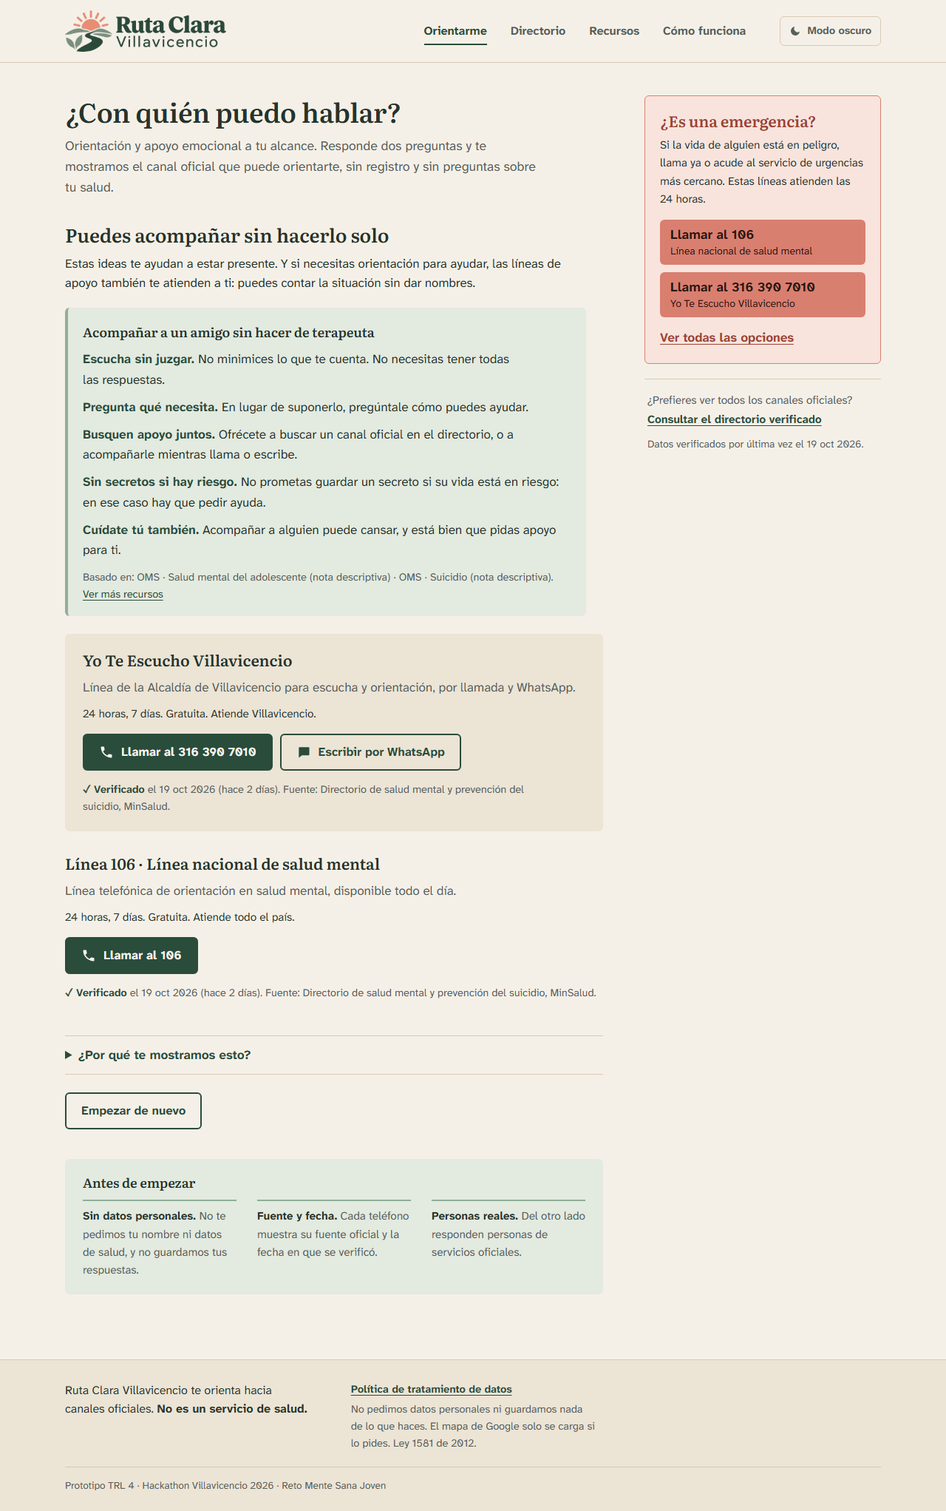
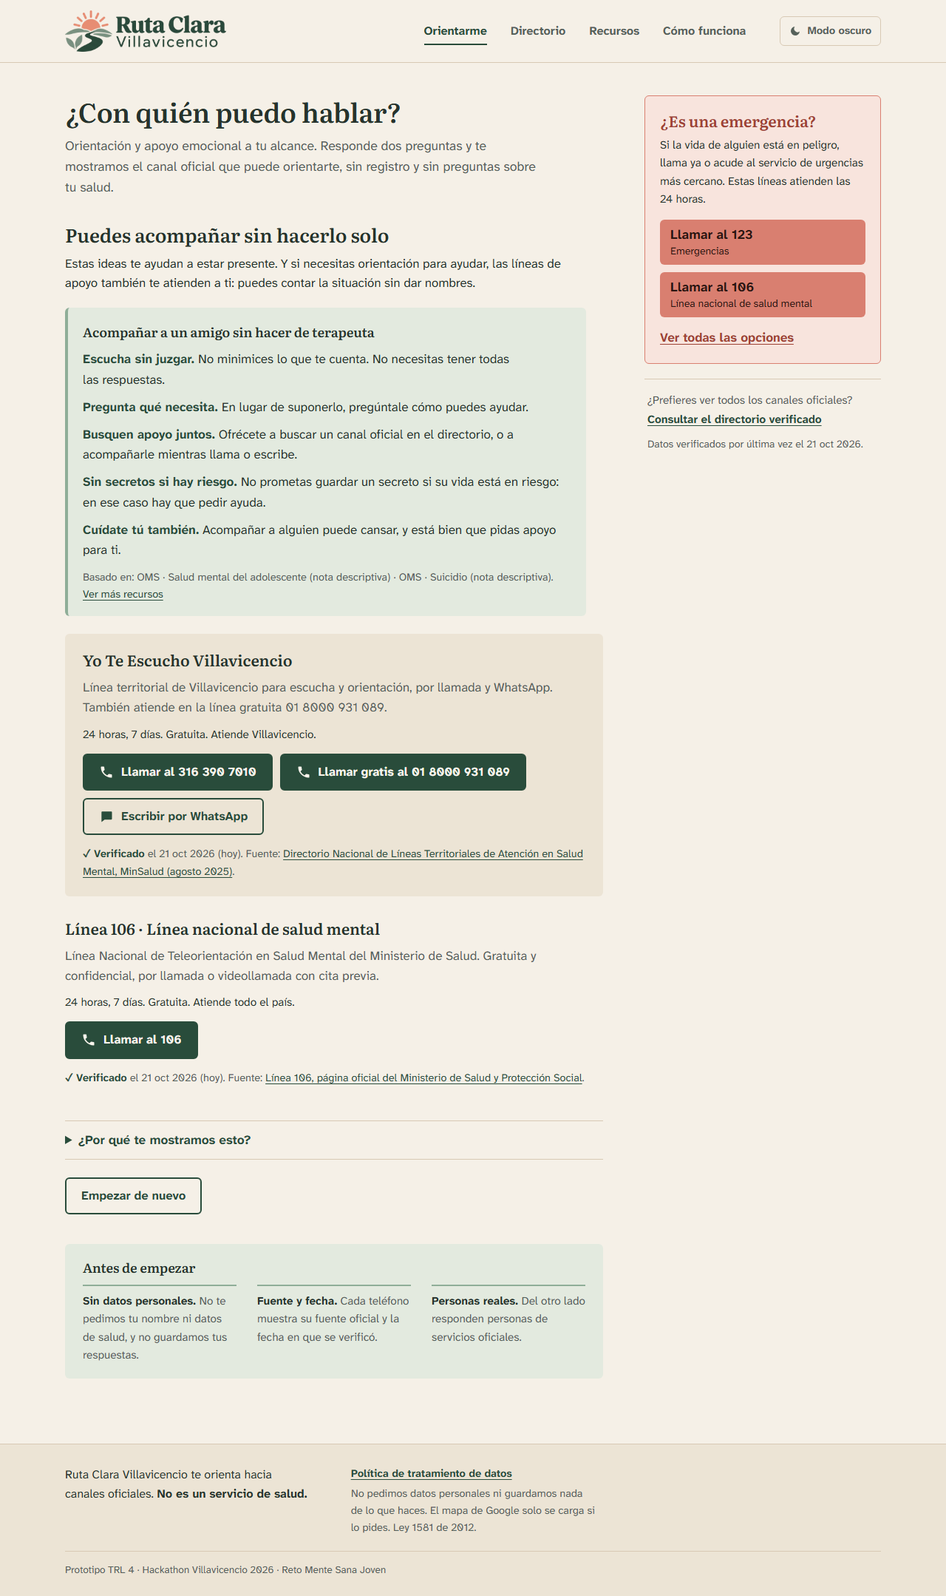
Fuentes oficiales para 106, Yo Te Escucho y 123; el 123 aparece en emergencia
- 106: página oficial de MinSalud; Yo Te Escucho: directorio nacional de líneas territoriales (ago 2025), que también le asigna el 01 8000 931 089.
- 123: Resolución CRC 5937 de 2020 (numeración 1XY).
- El panel de emergencia muestra primero el 123.
- CP-19 exige enlace oficial .gov.co; CP-20 actualizado.
- Registro de cambios: retiro de reportes por privacidad y registro de fuentes.

diff --git a/tests/datos.test.ts b/tests/datos.test.ts
@@ -8,20 +8,22 @@ const servicios = datos.servicios as Servicio[];
 const recursos = datosRecursos.recursos as Recurso[];
 
 describe('Integridad del directorio real (servicios.json)', () => {
-  it('CP-19 · Todo servicio mostrable tiene fuente, fecha y responsable de verificación', () => {
+  it('CP-19 · Todo servicio mostrable tiene fuente con enlace oficial, fecha y responsable de verificación', () => {
     for (const s of servicios) {
-      const v = evaluarVigencia(s, '2026-10-20');
+      const v = evaluarVigencia(s, '2026-10-21');
       if (v.mostrable) {
         expect(s.fuente?.nombre).toBeTruthy();
+        expect(s.fuente?.url).toMatch(/^https:\/\/[^/]*\.gov\.co\//);
         expect(s.fechaVerificacion).toBeTruthy();
         expect(s.verificadoPor).toBeTruthy();
       }
     }
   });
 
-  it('CP-20 · Los datos sin fuente (p. ej. 123, 01 8000) quedan "por verificar" y no se exponen', () => {
-    const pendientes = servicios.filter((s) => !evaluarVigencia(s, '2026-10-20').mostrable).map((s) => s.id);
-    expect(pendientes).toEqual(expect.arrayContaining(['linea-123', 'linea-018000931089']));
+  it('CP-20 · Los datos sin fuente quedan "por verificar" y no se exponen; 123, 106 y Yo Te Escucho tienen fuente', () => {
+    const evaluar = (hoy: string) => servicios.filter((s) => evaluarVigencia(s, hoy).mostrable).map((s) => s.id);
+    expect(evaluar('2026-10-21')).not.toContain('secretaria-salud-villavicencio');
+    expect(evaluar('2026-10-21')).toEqual(expect.arrayContaining(['linea-123', 'linea-106', 'yo-te-escucho']));
   });
 
   it('CP-21 · Los identificadores son únicos y cada servicio tiene al menos un canal', () => {

diff --git a/src/components/TarjetaServicio.tsx b/src/components/TarjetaServicio.tsx
@@ -37,9 +37,9 @@ export function TarjetaServicio({ rec, destacada }: Props) {
         <div className="acciones">
           {canales.map((c) => {
             const href = hrefCanal(c);
-            if (!href) return <span key={c.tipo}>{c.valor || c.etiqueta}</span>;
+            if (!href) return <span key={c.valor || c.tipo}>{c.valor || c.etiqueta}</span>;
             return (
-              <a key={c.tipo} className={`boton boton-${c.tipo}`} href={href} target={c.tipo === 'llamada' ? undefined : '_blank'} rel="noreferrer">
+              <a key={c.valor} className={`boton boton-${c.tipo}`} href={href} target={c.tipo === 'llamada' ? undefined : '_blank'} rel="noreferrer">
                 <IconoCanal tipo={c.tipo} /> {c.etiqueta}
               </a>
             );

diff --git a/src/components/BarraApoyo.tsx b/src/components/BarraApoyo.tsx
@@ -6,9 +6,11 @@ import { evaluarVigencia } from '../logic/vigencia';
  * En escritorio es un panel lateral fijo; en móvil, una barra fija abajo (ver styles.css).
  */
 export function BarraApoyo({ servicios, hoy }: { servicios: Servicio[]; hoy: string }) {
+  // El número de emergencias va primero; después, una llamada por línea 24 h.
   const lineas = servicios
     .filter((s) => s.horario.includes('24') && evaluarVigencia(s, hoy).mostrable)
-    .flatMap((s) => s.canales.filter((c) => c.tipo === 'llamada').map((c) => ({ s, c })))
+    .sort((a, b) => Number(!!b.emergencia) - Number(!!a.emergencia))
+    .flatMap((s) => s.canales.filter((c) => c.tipo === 'llamada').slice(0, 1).map((c) => ({ s, c })))
     .slice(0, 2);
 
   return (

diff --git a/docs/03-registro-fuentes-y-cambios.md b/docs/03-registro-fuentes-y-cambios.md
@@ -4,17 +4,16 @@
 
 | Servicio | Dato | Fuente | Fecha de consulta | Verificó | Estado en la app |
 |---|---|---|---|---|---|
-| Línea 106 | 106 · 24/7 | Directorio de salud mental y prevención del suicidio, MinSalud (citado en el kickoff, diapositiva 12) | 19 oct 2026 | Organización de la Hackathon | ✅ Vigente |
-| Yo Te Escucho Villavicencio | 316 390 7010 · llamada y WhatsApp · 24/7 | Igual que la anterior | 19 oct 2026 | Organización de la Hackathon | ✅ Vigente |
-| Línea 01 8000 931 089 | Titular por confirmar | Aparece en el kickoff sin nombre de entidad | — | — | ⏳ Por verificar |
-| Línea 123 | Emergencias | Pendiente | — | — | ⏳ Por verificar |
+| Línea 106 | 106 · gratuita · 24/7 · llamada y videollamada con cita | [Línea 106, página oficial de MinSalud](https://minsalud.gov.co/salud/publica/salud-mental/Paginas/linea-106.aspx) | 21 oct 2026 | Equipo Ruta Clara | ✅ Vigente |
+| Yo Te Escucho Villavicencio | 316 390 7010 y 01 8000 931 089 · llamada y WhatsApp · 24/7 | [Directorio Nacional de Líneas Territoriales de Atención en Salud Mental, MinSalud, agosto 2025](https://www.minsalud.gov.co/sites/rid/Lists/BibliotecaDigital/RIDE/VS/PP/ET/directorio-salud-mental-prevencion-suicidio-minsalud.pdf), página 9 (Meta, Villavicencio) | 21 oct 2026 | Equipo Ruta Clara | ✅ Vigente |
+| Línea 123 | Emergencias · sin costo | [Resolución CRC 5937 de 2020](https://cancilleria.gov.co/sites/default/files/Normograma/docs/resolucion_crc_5937_2020.htm), Comisión de Regulación de Comunicaciones: en la numeración 1XY, el 123 es el "Número Único de Emergencias", sin costo para quien llama | 21 oct 2026 | Equipo Ruta Clara | ✅ Vigente |
 | Secretaría Local de Salud | Atención presencial | Pendiente | — | — | ⏳ Por verificar |
 
 ### Tareas pendientes de verificación (antes del pitch)
 
-- [ ] Abrir el directorio de MinSalud y copiar la **URL exacta** en `src/data/servicios.json` → `fuente.url`.
-- [ ] Confirmar a qué entidad pertenece el **01 8000 931 089** y registrar su fuente y fecha.
-- [ ] Registrar fuente oficial y fecha para la **línea 123**.
+- [x] Registrar la **URL exacta** de la fuente del 106 y de Yo Te Escucho en `src/data/servicios.json` → `fuente.url`.
+- [x] Confirmar a qué entidad pertenece el **01 8000 931 089**: es la línea gratuita de Yo Te Escucho, según el directorio de MinSalud.
+- [x] Registrar fuente oficial y fecha para la **línea 123**.
 - [ ] Obtener dirección y horario de la **Secretaría Local de Salud** desde villavicencio.gov.co.
 - [ ] Cambiar `verificadoPor` al nombre del integrante que hizo cada verificación.
 
@@ -55,8 +54,8 @@ Todas las sedes salen del **Registro Especial de Prestadores y Sedes (REPS)** de
 
 | Fecha | Origen | Retroalimentación o hallazgo | Cambio realizado |
 |---|---|---|---|
-| 20 oct 2026 | Revisión de salvaguardas | Ocultar un servicio con un solo reporte permitiría que un reporte malicioso dejara sin contacto a alguien. | Un reporte marca "en revisión" y baja la prioridad, pero no oculta el servicio. |
-| 20 oct 2026 | Revisión de salvaguardas | El 123 es conocido, pero no tiene fuente registrada en nuestro directorio. | Se deja "por verificar" y no se muestra. La regla aplica igual para todos los datos (CP-20). |
+| 20 oct 2026 | Revisión de salvaguardas | Ocultar un servicio con un solo reporte permitiría que un reporte malicioso dejara sin contacto a alguien. | Un reporte marca "en revisión" y baja la prioridad, pero no oculta el servicio. *(El 21 oct se eliminaron los reportes por privacidad; ver más abajo.)* |
+| 20 oct 2026 | Revisión de salvaguardas | El 123 es conocido, pero no tiene fuente registrada en nuestro directorio. | Se deja "por verificar" y no se muestra. La regla aplica igual para todos los datos (CP-20). *(El 21 oct se registró su fuente; ver más abajo.)* |
 | 20 oct 2026 | Prueba de interfaz en móvil | La navegación se desbordaba en pantallas de 390 px. | Ajuste de pestañas flexibles. Sin desplazamiento horizontal. |
 | 20 oct 2026 | Prueba de interfaz | El comentario del reporte permitía escribir teléfonos. | Filtro de datos personales con mensaje claro. |
 | 20 oct 2026 | Revisión de diseño | El panel verificador y el modo demo estaban mezclados con la vista del joven; la opción de emergencia quedaba sola en una segunda fila; los datos "por verificar" ocupaban más espacio que los verificados. | Vista aparte para el verificador, emergencia como primera opción, pendientes en una lista compacta sin contacto, URL por vista y aviso visible cuando hay fecha simulada. |
@@ -64,6 +63,8 @@ Todas las sedes salen del **Registro Especial de Prestadores y Sedes (REPS)** de
 | 21 oct 2026 | Revisión de identidad | El fondo oscuro se sentía pesado (la app seguía el modo oscuro del sistema) y faltaba la identidad de marca. | Se integra el logo oficial de Ruta Clara Villavicencio; el modo claro es la base y el oscuro es opcional; la paleta sale del logo (verde bosque, coral, salvia); la emergencia es un panel lateral fijo en escritorio y una barra en móvil; se agrega acceso directo al directorio con la fecha de la última verificación. |
 | 21 oct 2026 | Revisión del equipo | El panel del verificador y la fecha simulada no aportaban al joven: los reportes solo existían en el mismo navegador, así que el panel era una maqueta. Faltaban contenidos informativos y una política de datos con base legal. | Se retiran el panel y el modo demostración; un reporte se cierra solo cuando el dato se reverifica. Se agregan Recursos con fuentes oficiales (CP-22, CP-23), preguntas frecuentes y la política de tratamiento de datos (Ley 1581 de 2012, Decreto 1377 de 2013). |
 | 21 oct 2026 | Revisión del equipo | Recibir reportes obligaba a guardar lo que escribía la persona, aunque fuera en su navegador. El orientador era redundante: con dos líneas verificadas, casi todas las opciones llevaban al mismo resultado. Faltaba orientar a quien prefiere ir en persona. | Se elimina por completo el reporte de novedades: la app no guarda nada. El orientador da un resultado distinto por opción (CP-18): líneas según el canal, consejos para acompañar o el mapa. Se agrega el mapa de lugares del REPS, que también aparece en el filtro "Presencial" del Directorio (CP-24). Google Maps solo se carga si la persona lo pide; se descartó pedir la ubicación porque "Ver en el mapa" y "Cómo llegar" ya resuelven cómo ubicar cada lugar. Recursos se lee en párrafos con selector de temas; el pie se distingue con la superficie "hoja" y resume la política de datos; se agrega SEO básico. |
+| 21 oct 2026 | Revisión de privacidad | Los reportes de novedades obligaban a guardar lo que escribía la persona. Además, un reporte no podía ocultar una línea, así que tampoco protegía a nadie. | Se quitan los reportes y el estado "en revisión". La salvaguarda queda en la regla de 30 días y en la verificación semanal del equipo (`docs/04-plan-de-operacion.md`). |
+| 21 oct 2026 | Revisión de fuentes | El 106 y Yo Te Escucho citaban el directorio de MinSalud sin enlace; el 123 no tenía fuente, así que la opción de emergencia no mostraba el número de emergencias; el 01 8000 931 089 no tenía titular. | Se registran las fuentes con enlace: página oficial de la Línea 106, directorio nacional de MinSalud (agosto 2025) y Resolución CRC 5937 de 2020 para el 123. El 01 8000 931 089 es la línea gratuita de Yo Te Escucho y se une a esa entrada. El panel de emergencia muestra primero el 123. CP-19 exige un enlace oficial `.gov.co` en todo dato que se muestre. |
 | _completar_ | Mentoría | | |
 | _completar_ | Mentoría | | |
 

diff --git a/docs/06-guion-pitch.md b/docs/06-guion-pitch.md
@@ -27,16 +27,16 @@ El kickoff pide cubrir: problema, usuario, solución, demo, evidencia, estado TR
 
 ### 1:50 · Demo en vivo (90 s)
 
-1. Inicio: señalar el aviso "no es un servicio de salud" y la barra fija con 106 y Yo Te Escucho.
+1. Inicio: señalar el aviso "no es un servicio de salud" y el panel "¿Es una emergencia?" con el 123 y el 106.
 2. Elegir **"Quiero hablar con alguien" → "WhatsApp"**. Aparece Yo Te Escucho con su fuente y fecha. Abrir **"¿Por qué te mostramos esto?"**.
 3. **Mapa**: volver al inicio, elegir **"Prefiero ir a un lugar en persona"**, tocar "Ver en el mapa" en el Hospital Departamental y luego "Cómo llegar". *"Son instituciones habilitadas por MinSalud, con su código. El mapa de Google solo carga si la persona lo pide, y no usamos su ubicación."*
-4. **Directorio**: mostrar los datos "Por verificar" (123 y 01 8000) con el contacto oculto: *"no lo mostramos porque aún no tenemos su fuente; la regla aplica para todos."*
+4. **Directorio**: abrir la fuente de una línea (enlace a MinSalud) y mostrar la Secretaría de Salud "por verificar", sin contacto: *"no la mostramos porque aún no tenemos su fuente; la regla aplica para todos."*
 5. **Recursos**: abrir "Acompañar a un amigo sin hacer de terapeuta" y señalar la fuente y la fecha de consulta. *"Hasta la información general lleva fuente."*
 6. **Política de datos** (pie de página): mostrar la tabla "Marco legal y cómo lo cumplimos". *"No pedimos datos, y lo explicamos artículo por artículo de la Ley 1581."*
 
 ### 3:20 · Evidencia y TRL 4 (50 s)
 
-> "Estamos en **TRL 4**: las dos funciones críticas están integradas y probadas en un entorno controlado. Definimos **24 casos de prueba con datos sintéticos y escenarios ficticios**, y los 24 pasan. Por ejemplo: un dato del día 30 se muestra; el del día 31, no. Una emergencia muestra primero las líneas de emergencia verificadas. Las preguntas no contienen palabras como síntoma, riesgo o diagnóstico. **Y estas son nuestras limitaciones:** un punto del mapa no es exacto y lo decimos en pantalla, el 123 aún no tiene fuente registrada y no hicimos pruebas con público, porque el reto no lo permite."
+> "Estamos en **TRL 4**: las dos funciones críticas están integradas y probadas en un entorno controlado. Definimos **24 casos de prueba con datos sintéticos y escenarios ficticios**, y los 24 pasan. Por ejemplo: un dato del día 30 se muestra; el del día 31, no. Una emergencia muestra primero las líneas de emergencia verificadas. Las preguntas no contienen palabras como síntoma, riesgo o diagnóstico. **Y estas son nuestras limitaciones:** un punto del mapa no es exacto y lo decimos en pantalla, la dirección de la Secretaría de Salud aún no tiene fuente y no la mostramos, y no hicimos pruebas con público, porque el reto no lo permite."
 
 Mostrar en pantalla: `docs/evidencia/resultados-pruebas.md`.
 
@@ -50,5 +50,6 @@ Mostrar en pantalla: `docs/evidencia/resultados-pruebas.md`.
 
 - **¿Por qué no un chatbot con IA?** → Porque el reto prohíbe que actúe como profesional, y porque un árbol de reglas es auditable: cualquiera puede ver por qué se recomienda algo.
 - **¿Cómo se enteran si una línea deja de funcionar?** → Por la verificación semanal; y si nadie la verifica, se oculta sola a los 31 días. No recibimos reportes dentro de la app para no guardar datos de nadie.
+- **¿Y si nadie verifica y la persona ve la pantalla vacía?** → Hoy no pasa: los datos se verificaron el 21 de octubre y se muestran hasta el 20 de noviembre. Si vencen, la app no deja la pantalla vacía: remite al directorio oficial de MinSalud y a urgencias. En operación proponemos que las líneas nacionales (123 y 106), que cambian muy poco, sigan visibles con la etiqueta "verificación vencida", sin presentarlas como vigentes.
 - **¿Cómo sabemos que la app no muestra datos viejos?** → Por los casos CP-04 y CP-05: el día 30 el dato se muestra y el día 31 se oculta, sin intervención humana.
 - **¿Guardan datos?** → No. No hay registro, y las respuestas del orientador se borran al reiniciar.

diff --git a/docs/evidencia/resultados-pruebas.md b/docs/evidencia/resultados-pruebas.md
@@ -1,6 +1,6 @@
 # Resultados de pruebas controladas · Ruta Clara Villavicencio
 
-Ejecución: 21/10/2026, 8:03:12 p. m. (hora Colombia) · Herramienta: Vitest · Datos: sintéticos y escenarios ficticios
+Ejecución: 21/10/2026, 9:21:21 p. m. (hora Colombia) · Herramienta: Vitest · Datos: sintéticos y escenarios ficticios
 
 **24 de 24 casos aprobados.**
 
@@ -21,14 +21,14 @@ Ejecución: 21/10/2026, 8:03:12 p. m. (hora Colombia) · Herramienta: Vitest ·
 | CP-13 | "Sofía" (ficticia) pregunta por un amigo → consejos para acompañar y líneas, sin segunda pregunta | Función crítica 2 · Orientador por tipo de consulta (escenarios ficticios) | ✅ Aprobado | 0 ms |
 | CP-14 | Canal pedido sin oferta vigente → respaldo con otros canales y lo explica | Función crítica 2 · Orientador por tipo de consulta (escenarios ficticios) | ✅ Aprobado | 0 ms |
 | CP-15 | Sin ningún dato vigente → no muestra teléfonos y remite a fuente oficial | Función crítica 2 · Orientador por tipo de consulta (escenarios ficticios) | ✅ Aprobado | 0 ms |
-| CP-16 | Cada resultado explica la regla aplicada ("por qué") | Función crítica 2 · Orientador por tipo de consulta (escenarios ficticios) | ✅ Aprobado | 1 ms |
-| CP-17 | Salvaguarda: las preguntas no piden síntomas, diagnóstico ni datos personales | Función crítica 2 · Orientador por tipo de consulta (escenarios ficticios) | ✅ Aprobado | 1 ms |
+| CP-16 | Cada resultado explica la regla aplicada ("por qué") | Función crítica 2 · Orientador por tipo de consulta (escenarios ficticios) | ✅ Aprobado | 0 ms |
+| CP-17 | Salvaguarda: las preguntas no piden síntomas, diagnóstico ni datos personales | Función crítica 2 · Orientador por tipo de consulta (escenarios ficticios) | ✅ Aprobado | 0 ms |
 | CP-18 | Cada propósito lleva a un resultado distinto (sin respuestas redundantes) | Función crítica 2 · Orientador por tipo de consulta (escenarios ficticios) | ✅ Aprobado | 0 ms |
-| CP-19 | Todo servicio mostrable tiene fuente, fecha y responsable de verificación | Integridad del directorio real (servicios.json) | ✅ Aprobado | 2 ms |
-| CP-20 | Los datos sin fuente (p. ej. 123, 01 8000) quedan "por verificar" y no se exponen | Integridad del directorio real (servicios.json) | ✅ Aprobado | 1 ms |
+| CP-19 | Todo servicio mostrable tiene fuente con enlace oficial, fecha y responsable de verificación | Integridad del directorio real (servicios.json) | ✅ Aprobado | 2 ms |
+| CP-20 | Los datos sin fuente quedan "por verificar" y no se exponen; 123, 106 y Yo Te Escucho tienen fuente | Integridad del directorio real (servicios.json) | ✅ Aprobado | 2 ms |
 | CP-21 | Los identificadores son únicos y cada servicio tiene al menos un canal | Integridad del directorio real (servicios.json) | ✅ Aprobado | 0 ms |
 | CP-22 | Cada guía cita al menos una fuente con enlace y una fecha de consulta válida | Recursos informativos (recursos.json) | ✅ Aprobado | 1 ms |
 | CP-23 | Las guías no usan lenguaje de diagnóstico ni de tratamiento | Recursos informativos (recursos.json) | ✅ Aprobado | 1 ms |
-| CP-24 | Cada lugar cita el REPS, tiene código de habilitación de Villavicencio, fecha vigente y su punto cae dentro del municipio | Lugares de atención presencial (lugares.json) | ✅ Aprobado | 3 ms |
+| CP-24 | Cada lugar cita el REPS, tiene código de habilitación de Villavicencio, fecha vigente y su punto cae dentro del municipio | Lugares de atención presencial (lugares.json) | ✅ Aprobado | 2 ms |
 
 Regenerar con `npm run evidencia`.

diff --git a/docs/02-casos-de-prueba.md b/docs/02-casos-de-prueba.md
@@ -44,8 +44,8 @@
 
 | ID | Escenario | Resultado esperado |
 |---|---|---|
-| CP-19 | `servicios.json` real | Todo lo mostrable tiene fuente, fecha y responsable |
-| CP-20 | Datos sin fuente (123, 01 8000) | Quedan "por verificar" y no se exponen |
+| CP-19 | `servicios.json` real | Todo lo mostrable tiene fuente con enlace oficial (`.gov.co`), fecha y responsable |
+| CP-20 | Datos con y sin fuente | Lo que no tiene fuente (Secretaría de Salud) queda "por verificar" y no se expone; 123, 106 y Yo Te Escucho se muestran |
 | CP-21 | Integridad | IDs únicos y al menos un canal por servicio |
 | CP-22 | `recursos.json` real | Cada guía tiene pautas, al menos una fuente con enlace https y una fecha de consulta válida |
 | CP-23 | Salvaguarda de lenguaje en las guías | No contienen diagnóstico, síntoma, trastorno, tratamiento, medicamento ni escala |
@@ -63,8 +63,8 @@
 ## Limitaciones identificadas (honestidad técnica)
 
 1. **Un punto del mapa no es exacto.** Monte Sinaí sede principal se ubicó con un directorio público. La app lo dice en ese lugar; falta confirmarlo en sitio.
-2. **La verificación de los datos reales depende del kickoff.** Los dos números vigentes vienen de la diapositiva 12, que cita el directorio de MinSalud. Falta registrar la URL directa de la fuente.
-3. **123 y 01 8000 931 089 están "por verificar".** Por diseño no se muestran hasta tener fuente y fecha. Por eso el flujo de emergencia hoy solo muestra 106 y Yo Te Escucho.
+2. **Los datos vencen si nadie los verifica.** Los teléfonos se verificaron el 21 oct 2026 y se muestran hasta el 20 nov 2026. Sin la verificación semanal del plan de operación, la app los oculta y remite al directorio oficial de MinSalud.
+3. **La Secretaría Local de Salud sigue "por verificar".** Falta su dirección y horario en una fuente oficial; por diseño no se muestra.
 4. **La fecha depende del reloj del dispositivo.** Un reloj mal configurado altera la vigencia. Mitigación futura: tomar la fecha del servidor.
 5. **El mapa depende de Google Maps.** Si Google no carga (sin internet o bloqueado), la lista de lugares con teléfono y dirección sigue funcionando.
 6. **No hay pruebas con usuarios reales.** Es una restricción del reto. La usabilidad se infiere de buenas prácticas de accesibilidad, no de pruebas con público.

diff --git a/LEEME.md b/LEEME.md
@@ -94,7 +94,6 @@ Cada vista tiene su propia dirección, así que el botón "atrás" del celular f
 En orden de prioridad. Si tomas uno, escribe tu nombre al lado.
 
 - [ ] **Completar la declaración del equipo:** nombre del equipo e integrantes con su rol en `docs/05-declaracion-del-equipo.md`. Es un entregable obligatorio.
-- [ ] **Registrar la URL exacta de la fuente** (directorio de MinSalud) en `src/data/servicios.json` → `fuente.url`, y la fecha en que la consultamos.
 - [ ] **Cambiar `verificadoPor`** en `servicios.json` por el nombre de quien verificó cada dato.
 - [ ] **Anotar la retroalimentación de mentorías** en la tabla de `docs/03-registro-fuentes-y-cambios.md`. El jurado lo pide explícitamente.
 - [ ] **Ensayar la demo completa** en el computador del pitch siguiendo `docs/06-guion-pitch.md` (orientador, mapa, recursos y política de datos). El mapa necesita internet.
@@ -107,8 +106,6 @@ La app no los muestra hasta tener fuente oficial y fecha. Si alguien consigue la
 
 | Dato | Qué falta |
 |---|---|
-| Línea 01 8000 931 089 | Confirmar a qué entidad pertenece (aparece en el kickoff sin nombre) |
-| Línea 123 (emergencias) | Fuente oficial y fecha de consulta |
 | Secretaría Local de Salud de Villavicencio | Dirección y horario desde villavicencio.gov.co |
 
 **No inventamos ni copiamos números de redes sociales:** solo fuentes oficiales con fecha. Para los lugares del mapa, la fuente es el REPS de MinSalud; las sedes descartadas y el porqué están en `docs/03-registro-fuentes-y-cambios.md`.

diff --git a/docs/05-declaracion-del-equipo.md b/docs/05-declaracion-del-equipo.md
@@ -16,7 +16,7 @@ No hay trabajo previo. El proyecto se inició el 20 de octubre de 2026, después
 | Visual Studio Code | Editor | MIT (código base) / licencia de Microsoft |
 | Node.js | Entorno de ejecución | MIT |
 | Git | Control de versiones | GPL-2.0 |
-| Playwright + Chromium | Capturas automatizadas de la interfaz | Apache-2.0 / BSD |
+| Microsoft Edge (Chromium, modo sin ventana) | Capturas automatizadas de la interfaz | Licencia de Microsoft |
 
 > La IA **no** forma parte del producto. La app no usa IA en tiempo de ejecución: el orientador es un árbol de reglas fijo.
 
@@ -35,7 +35,7 @@ No hay trabajo previo. El proyecto se inició el 20 de octubre de 2026, después
 
 ## Datos
 
-- **Datos de contacto:** públicos, del directorio de MinSalud citado en el kickoff.
+- **Datos de contacto:** públicos. El 106 y Yo Te Escucho salen de MinSalud (página de la Línea 106 y directorio nacional de líneas territoriales, agosto 2025); el 123, de la regulación de la Comisión de Regulación de Comunicaciones. Cada uno tiene enlace y fecha en `src/data/servicios.json`.
 - **Lugares del mapa:** públicos, del Registro Especial de Prestadores (REPS) de MinSalud en datos.gov.co. Las coordenadas salen del sitio oficial del hospital, de OpenStreetMap (licencia ODbL) o de un directorio público, y se indica cuál en cada lugar.
 - **Datos de prueba:** 100 % sintéticos (`tests/escenarios.ts`).
 - **No se usan** datos personales, datos de salud reales ni credenciales. El repositorio no contiene llaves API.
